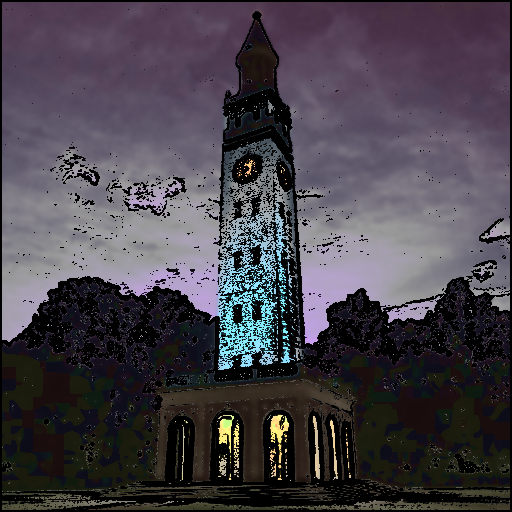
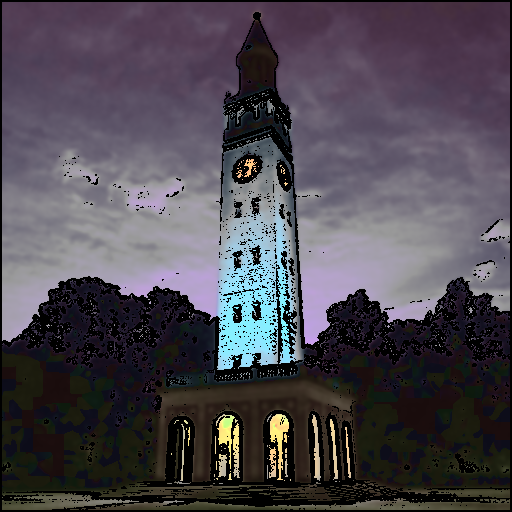
init hw3

diff --git a/filters/src/artistic.py b/filters/src/artistic.py
@@ -7,16 +7,16 @@ import cv2
 filtr = [[0.025, 0.0625, 0.5, 0.0625, 0.025],[0.0125, 0.025, 0.25, 0.025, 0.0125]]
 
 def neon(im):
+    # smooth to get rid of noise
     height, width, ch = im.shape
     im = filters.gaussian(im, sigma=0.7)
     imo = np.zeros((height, width, 3), dtype=np.uint8)
     gra = np.zeros((height, width, 1), dtype=np.int64)
     gra = color.rgb2gray(im)
 
-    # thresh = 0.001
-
     for y in range(2, height-2):
         for x in range(2, width-2):
+            # calculate gradient
             gradX = np.dot(filtr[0], gra[y, x-2:x+3]) + np.dot(filtr[1], gra[y+1, x-2:x+3])-gra[y,x]
             gradY = np.sum(np.transpose(filtr)*gra[y-2:y+3, x:x+2])-gra[y, x]
             gradXY = sqrt(gradX*gradX + gradY*gradY)
@@ -31,7 +31,6 @@ def neon(im):
                 hsv[2] = hsv[2]*(2-lightness)
 
             imo[y,x] = 255*color.hsv2rgb(hsv)
-            # imo[y][x] = ( np.uint8(sepia_r), np.uint8(sepia_g) , np.uint8(sepia_b) )
 
     # wanna smear hue, but do we wanna smear lines?
     # imo = filters.gaussian(imo, sigma=0.1)
@@ -44,6 +43,7 @@ def neon(im):
 
 
 def comic(im):
+    # smooth the image
     height, width, ch = im.shape
     im = filters.gaussian(im, sigma=0.7)
     imblur = filters.gaussian(im, sigma=1.5)
@@ -61,26 +61,27 @@ def comic(im):
             gradXY = sqrt(gradX*gradX + gradY*gradY) 
             grad[y][x] = gradXY
 
+    # calculate threshold
     mean = np.mean(grad)
-    stddev = sqrt(np.sum(np.multiply(gradXY - mean, gradXY - mean))/(height*width))
-    thresh = mean+128*stddev
+    stddev = sqrt(np.sum(np.multiply(grad - mean, grad - mean))/(height*width))
+    thresh = mean + stddev*.667
 
+
+    # TODO: reduce no of colors maybe
     for y in range(2, height-2):
         for x in range(2, width-2):
             hsv = color.rgb2hsv(imblur[y,x])
             if(grad[y,x] > thresh):
-                factor = min(1,(grad[y,x]-mean)/(mean))
-                val = hsv[2]
-                hsv[2] = abs(val-.5)*(1-factor)
-                hsv[1] = min(1, val+.1)*(1-factor)
+                hsv[2] = 0
+                hsv[1] = 0
             else:
-                hsv[1] = abs(hsv[2]-.5)
-                hsv[2] = min(1, hsv[2]+.1)
+                hsv[1] = abs(hsv[2]-.5)         # desaturate color
+                hsv[2] = min(1, hsv[2]+.1)      # 'wash out' color
 
             imo[y,x] = 255*color.hsv2rgb(hsv)
-            # imo[y][x] = ( np.uint8(sepia_r), np.uint8(sepia_g) , np.uint8(sepia_b) )
 
     return imo
+
 
 def vignette(im):
     rows, cols = im.shape[:2]

diff --git a/prokudin-gorskii/run.py b/prokudin-gorskii/run.py
@@ -1,0 +1,43 @@
+#!/usr/bin/env python3.9
+
+import multiprocessing
+
+from skimage import io
+import numpy as np
+from skimage import img_as_ubyte
+import os
+
+from src.autocrop import crop
+from src.align_basic import align_basic as basic 
+
+INPUT_ROOT_DIR = 'data/in/'
+OUTPUT_ROOT_DIR = 'data/out/' 
+
+def preprocess(im):
+    pass
+
+def align_basic():
+    ims = ['camel.jpg']
+
+    for f in ims:
+        im = io.imread(INPUT_ROOT_DIR + f)
+        io.imsave(OUTPUT_ROOT_DIR + "part1/" + f, img_as_ubyte(basic(im)))
+
+
+def clean():
+    for i in range(1, 3):
+        os.system('rm data/out/part'+str(i)+'/*')
+
+# clean()
+
+if __name__ == '__main__':
+    functions = [align_basic] # vignette, contrast, gray, sepia, balance, neon, 
+    processes = []
+
+    for f in functions:
+        p = multiprocessing.Process(target=f)
+        processes.append(p)
+        p.start()
+
+    for p in processes:
+        p.join()

diff --git a/filters/run.py b/filters/run.py
@@ -89,7 +89,7 @@ def clean():
 # clean()
 
 if __name__ == '__main__':
-    functions = [vignette, contrast, gray, sepia, balance, neon, comic]
+    functions = [comic] # vignette, contrast, gray, sepia, balance, neon, 
     processes = []
 
     for f in functions:

diff --git a/prokudin-gorskii/src/align_basic.py b/prokudin-gorskii/src/align_basic.py
@@ -1,0 +1,2 @@
+def match(img):
+    pass

diff --git a/prokudin-gorskii/src/autocrop.py b/prokudin-gorskii/src/autocrop.py
@@ -1,0 +1,2 @@
+def crop(im):
+    pass
